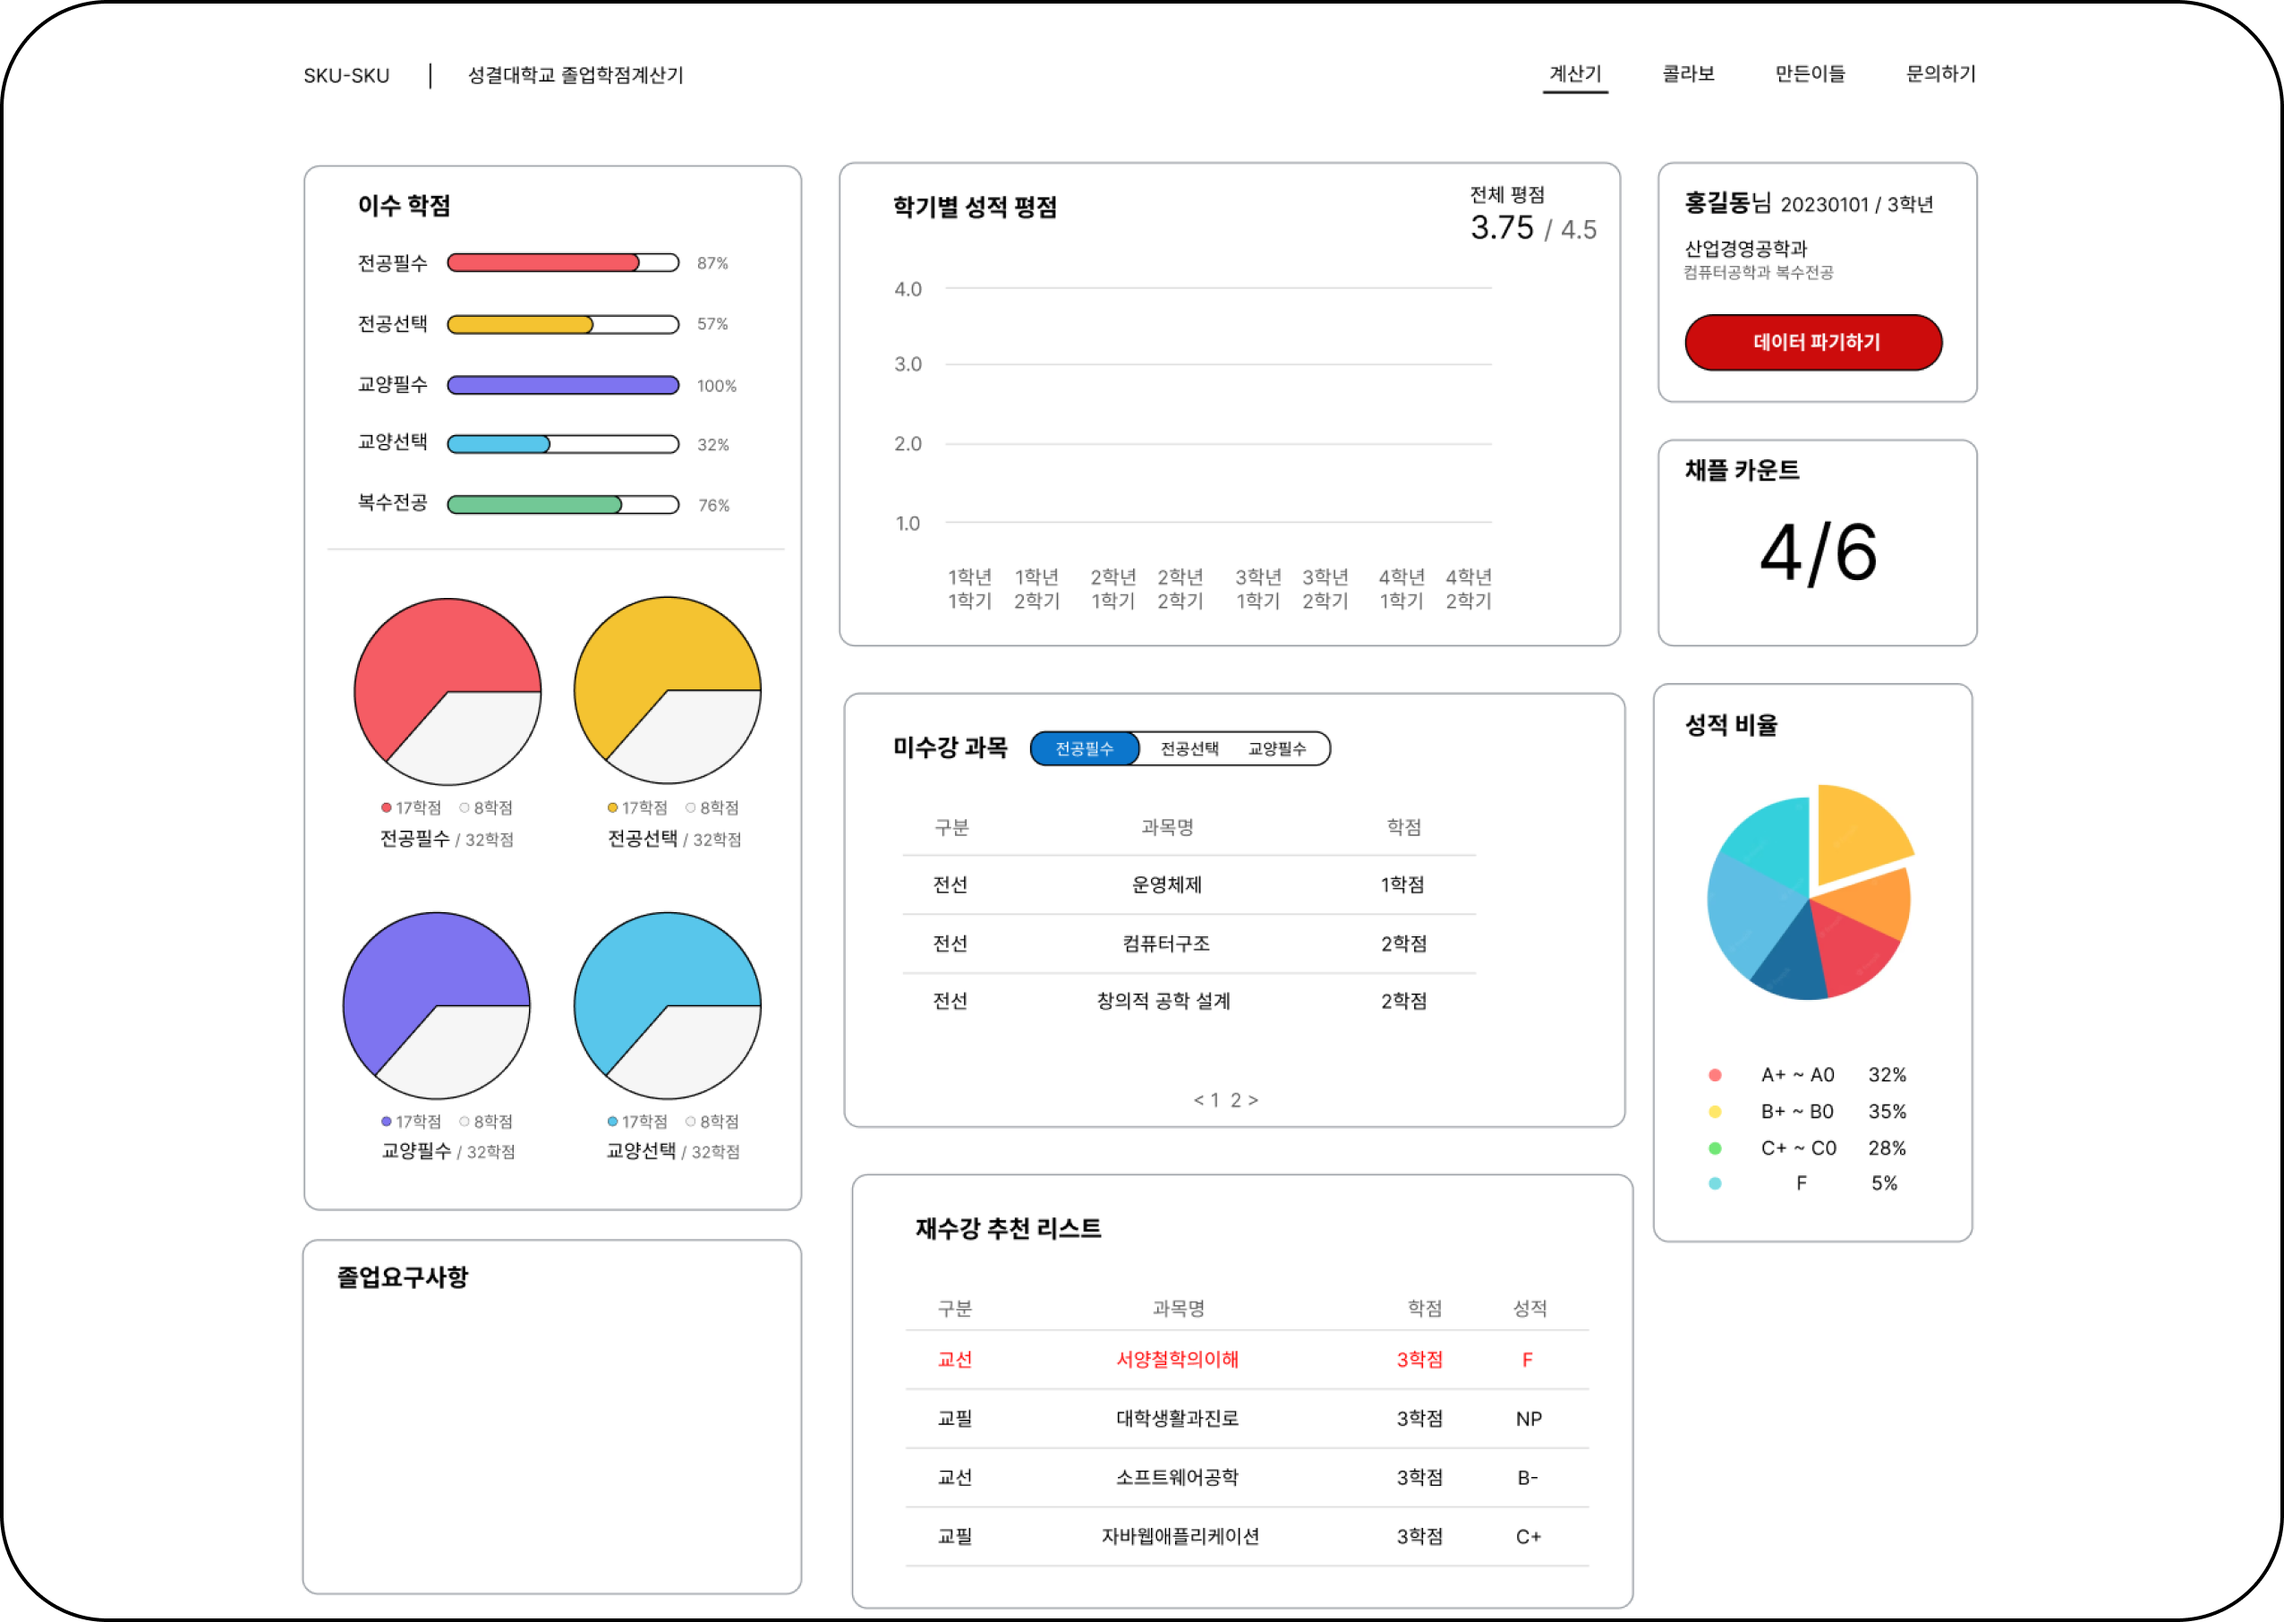
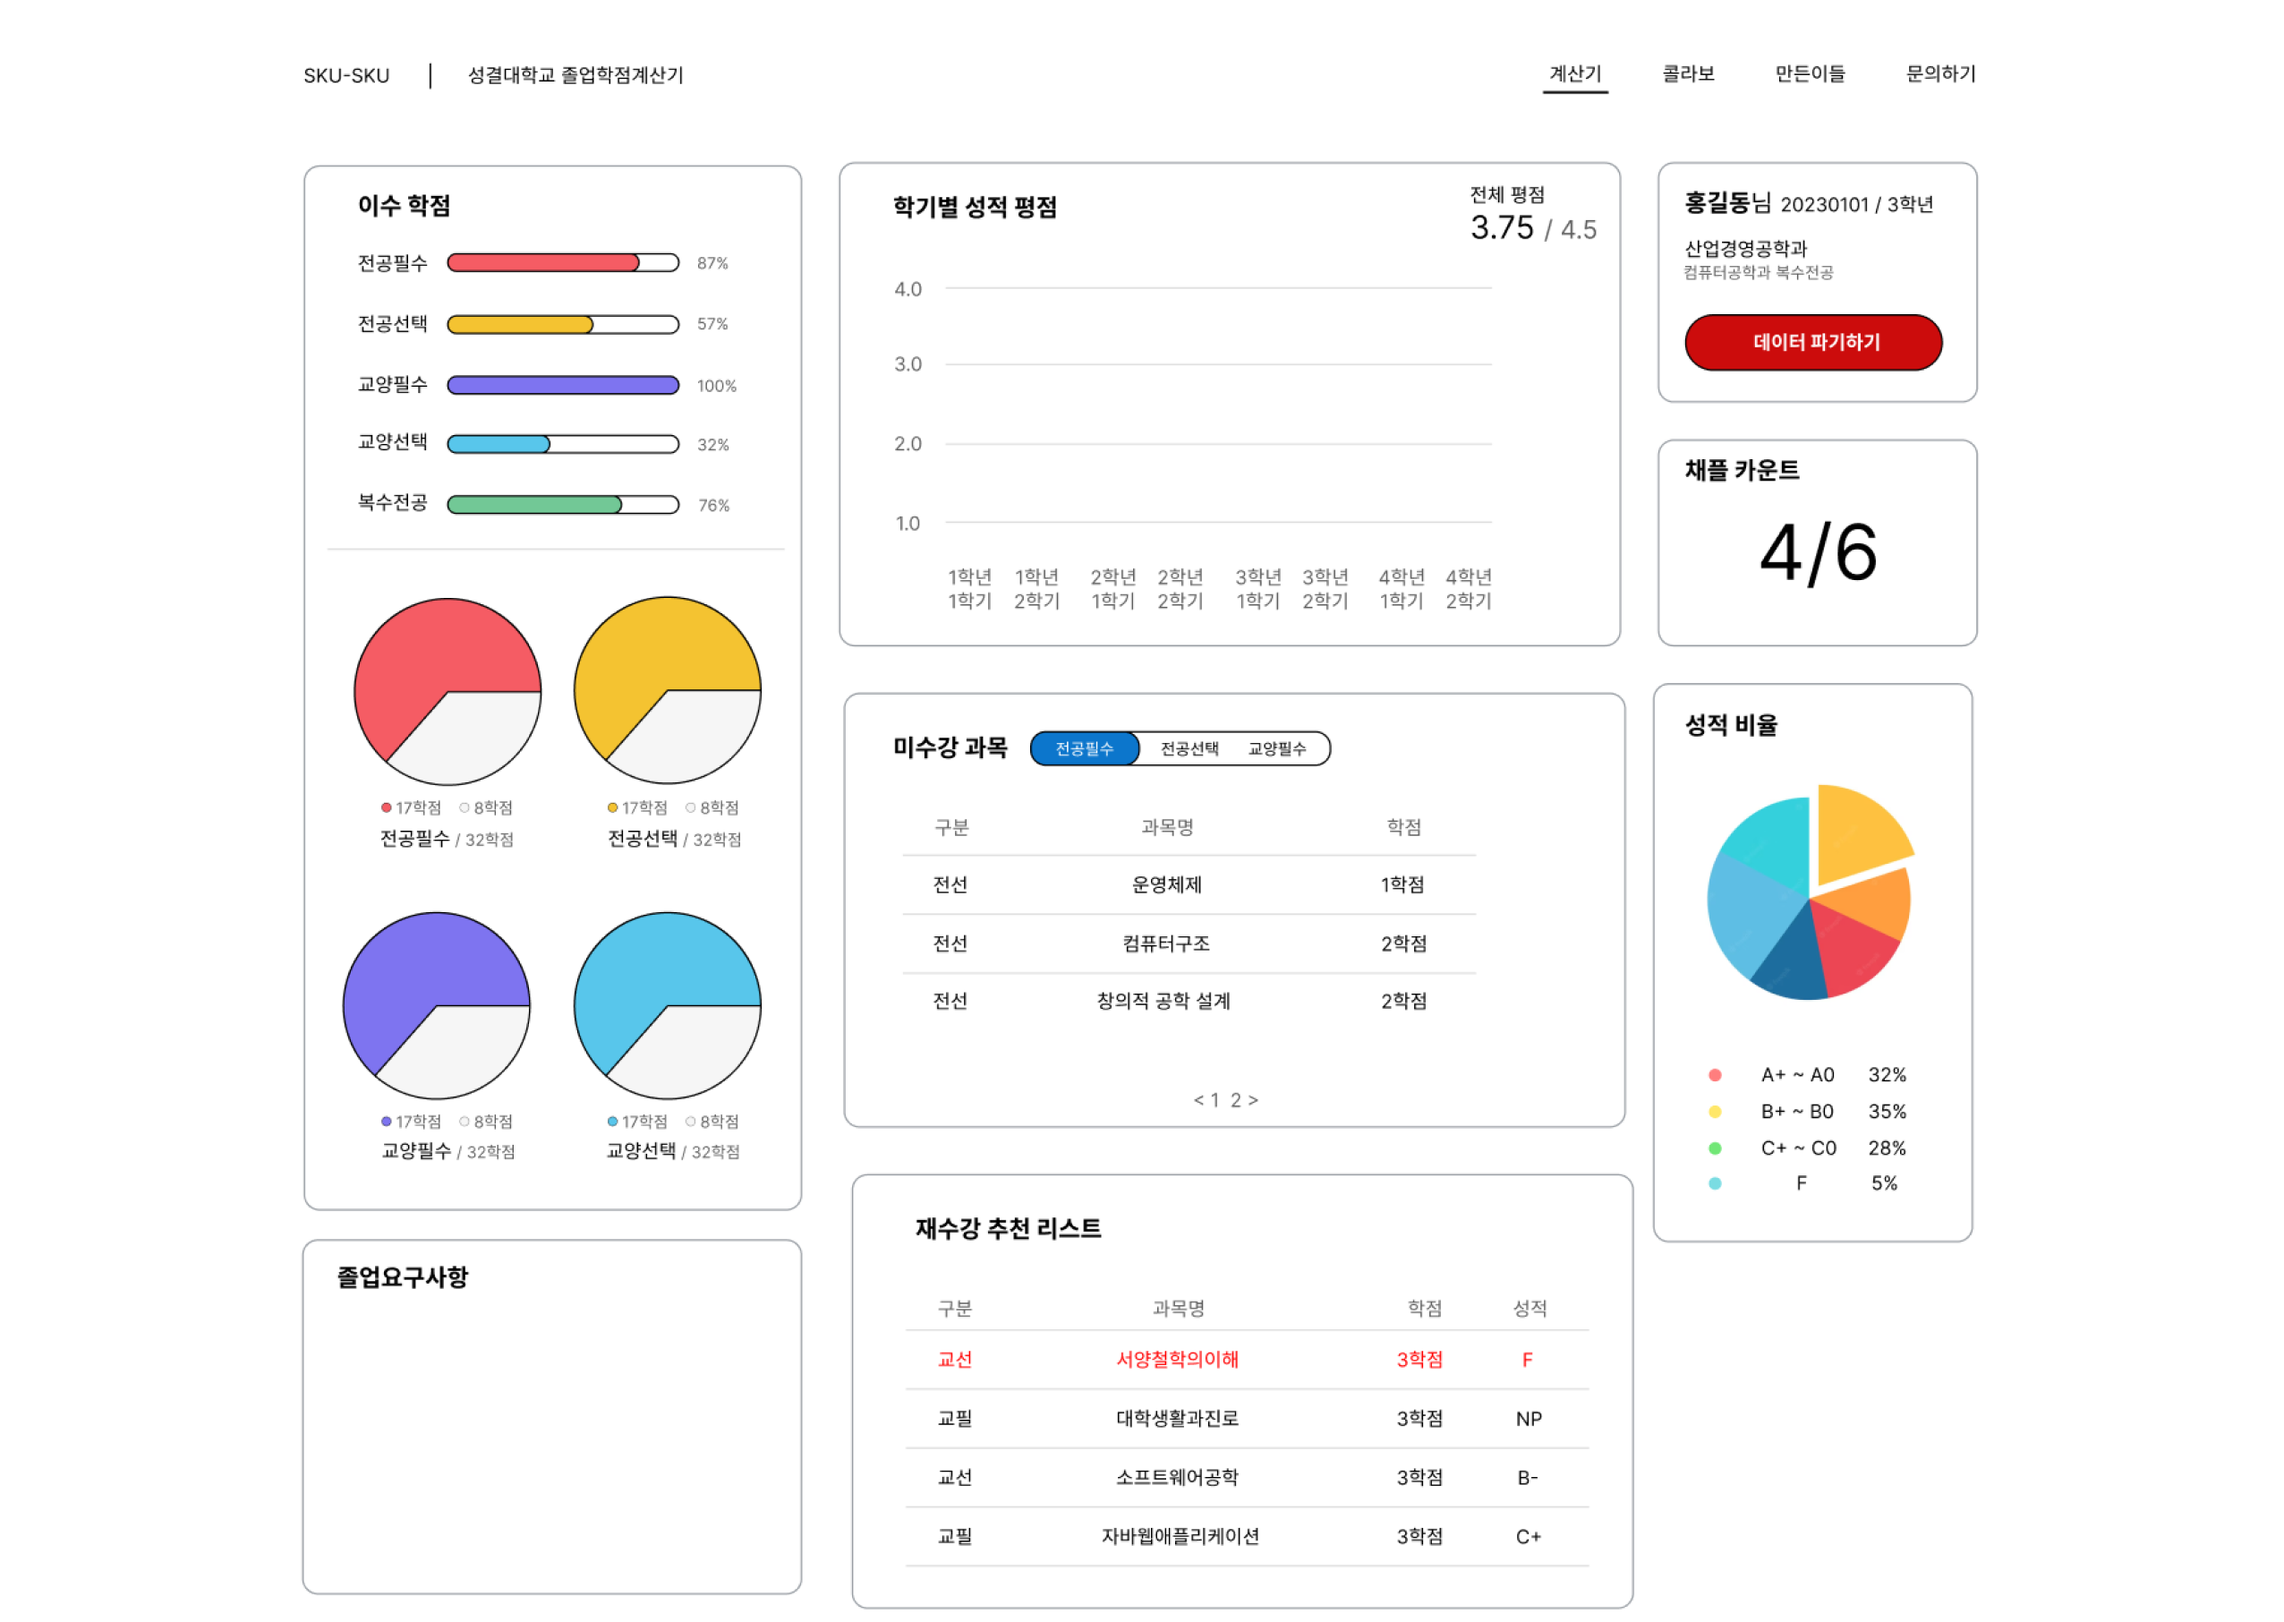
이미지 그림자 추가

Changed region(s): [[0.9906, 0.0309, 1.0, 0.989], [0.031, 0.989, 0.9906, 1.0], [0.9596, 0.0, 0.9906, 0.0309]]

diff --git a/main.css b/main.css
@@ -42,6 +42,8 @@
 }
 .preview-img {
     margin-top: 200px;
+    border-radius: 30px;
+    box-shadow: rgba(0, 0, 0, 0.15) 0px 15px 25px, rgba(0, 0, 0, 0.05) 0px 5px 10px;
 }
 .collabo-section {
     background-color: #F9FAFB;
@@ -53,6 +55,7 @@
 .profile-card {
     /* border: 2px solid #000000; */
     border-radius: 30px;
+    box-shadow: rgba(0, 0, 0, 0.15) 0px 15px 25px, rgba(0, 0, 0, 0.05) 0px 5px 10px;
 }
 .profile-design-1 {
     background: linear-gradient(-45deg, #FCE38A, #F38181, #F54EA2, #FF7676);
